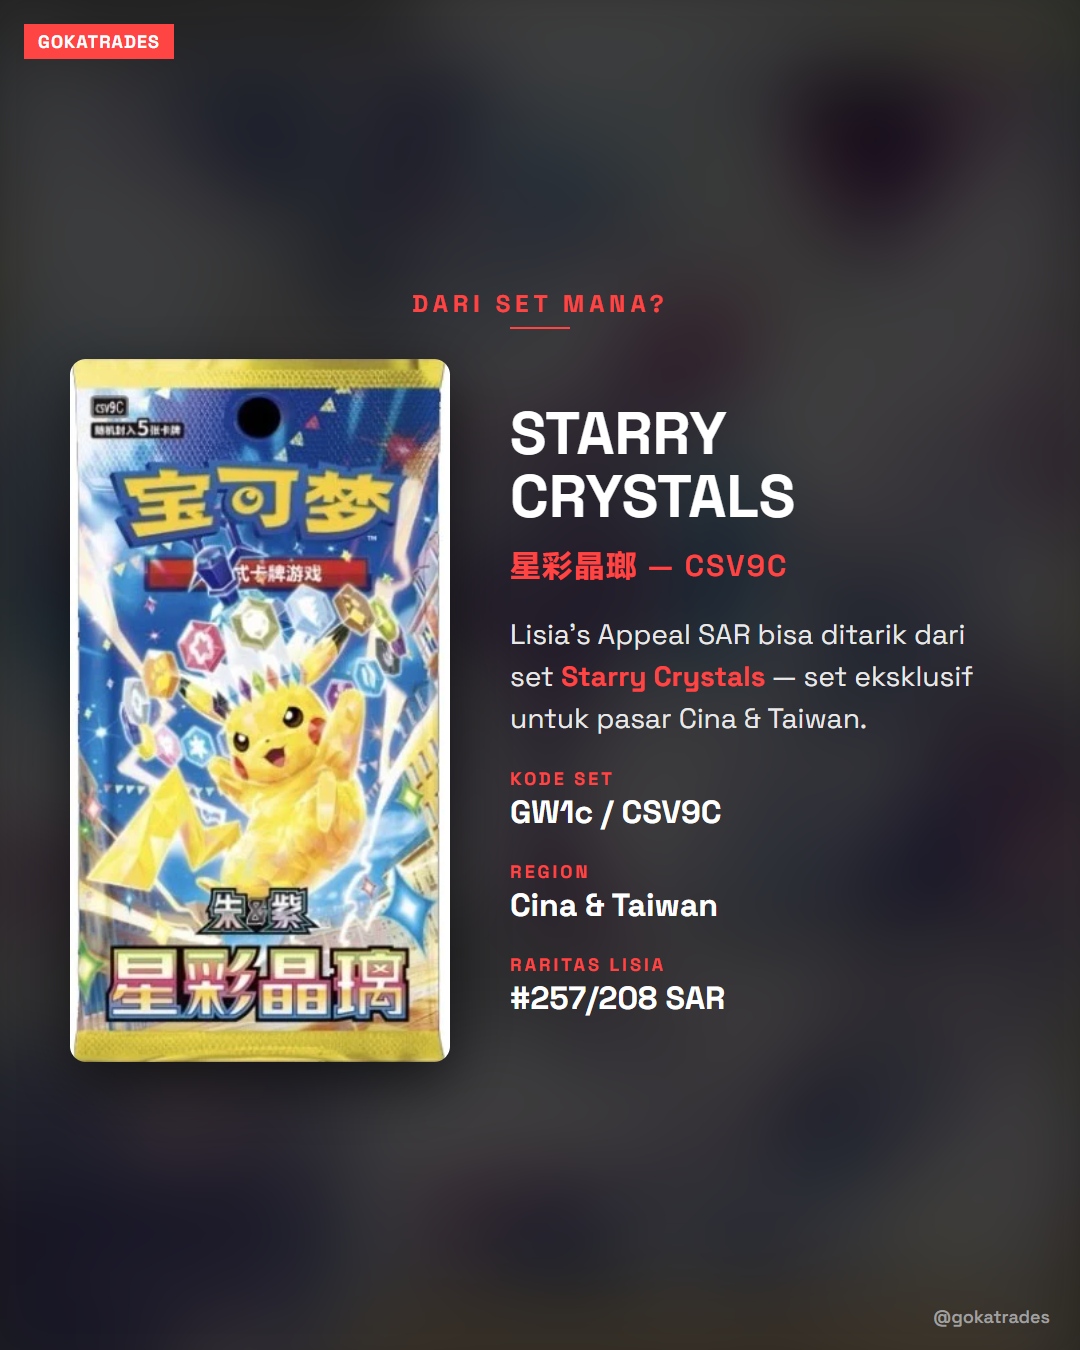
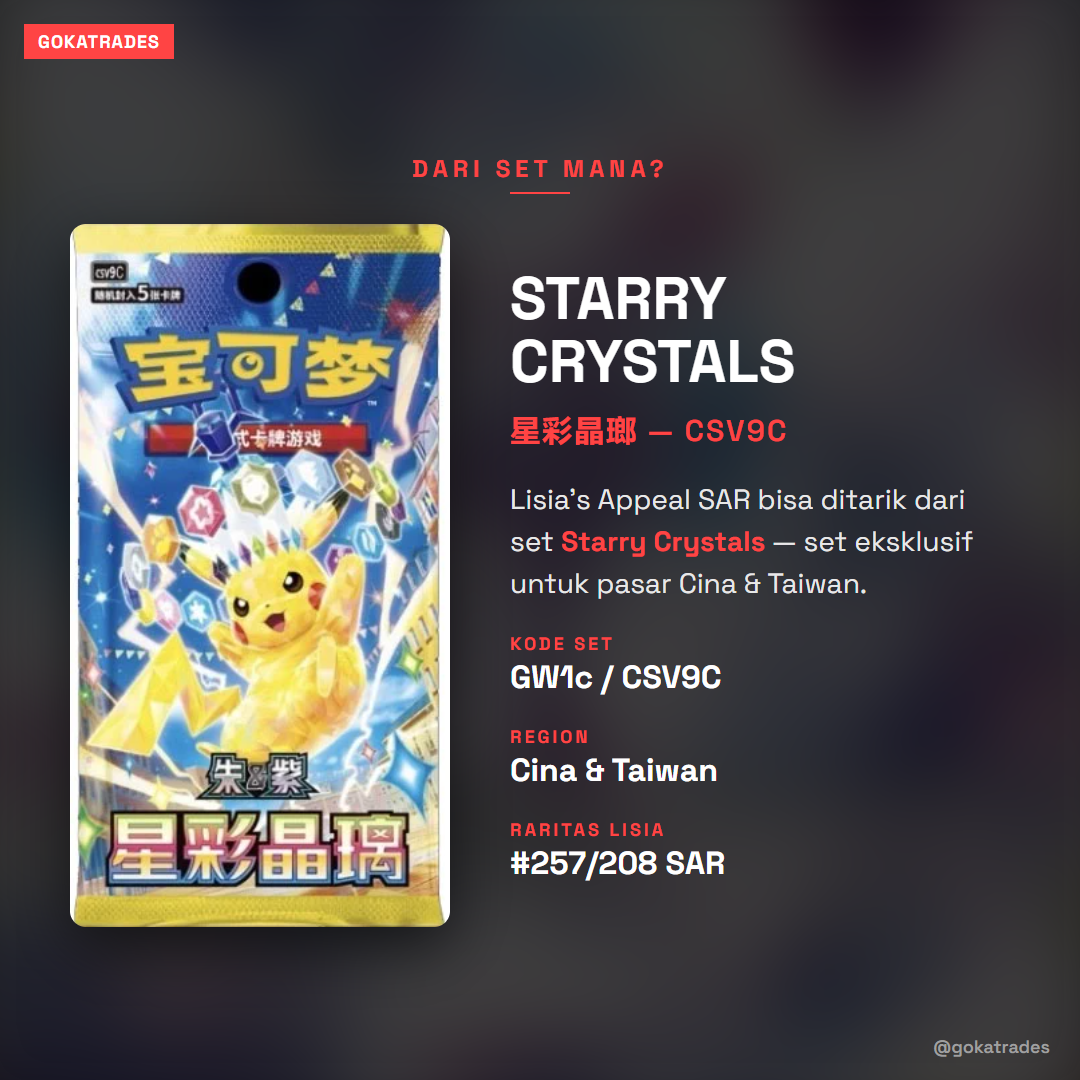
Update slides to 1080x1080 square format and add caption
Resized all 4-13-26 carousel slides from 1080x1350 to 1080x1080 for
Instagram square format. Added caption.txt.

diff --git a/Goka Trades Feed Posts/4-13-26/slides.html b/Goka Trades Feed Posts/4-13-26/slides.html
@@ -25,7 +25,7 @@
 
   .slide {
     width: 1080px;
-    height: 1350px;
+    height: 1080px;
     position: relative;
     overflow: hidden;
     flex-shrink: 0;
